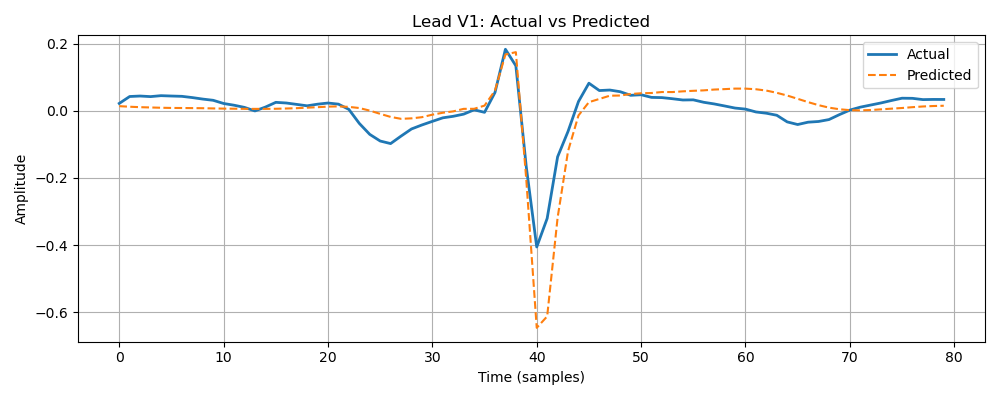
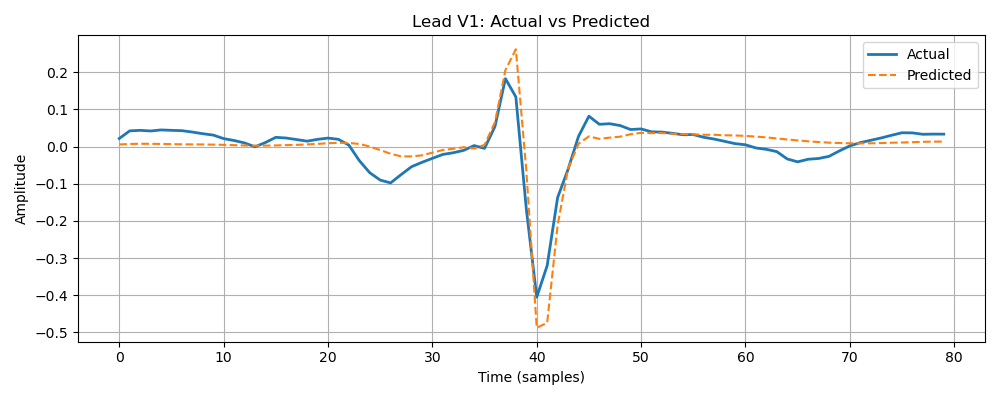
Input: I, II, V2. Focusing only the Normal People

diff --git a/QRS_to_Multilead_Reconstruction/PQRST_Stats_Segment_Extractor.py b/QRS_to_Multilead_Reconstruction/PQRST_Stats_Segment_Extractor.py
@@ -1,3 +1,6 @@
+# Modified to use V2 as an input like leads I and II
+# and V3 moved to other_leads to be predicted
+
 import os
 import joblib
 import neurokit2 as nk
@@ -12,7 +15,7 @@ import pywt
 
 # --- Parameters ---
 sampling_rate = 100
-padding = 40  # 80 samples total, centered on R-peak
+padding = 40
 segment_length = 2 * padding
 lead_names = ['I', 'II', 'III', 'aVR', 'aVL', 'aVF',
               'V1', 'V2', 'V3', 'V4', 'V5', 'V6']
@@ -23,17 +26,15 @@ input_test_path = Path("data_no_segmentation/ecg_test_clean.pkl")
 meta_train_path = Path("train_split.csv")
 meta_test_path = Path("test_split.csv")
 output_dir = Path("PQRST_Triplet_With_Stats_80")
-image_dir = output_dir / "train_segments_plots"
 output_dir.mkdir(parents=True, exist_ok=True)
-image_dir.mkdir(parents=True, exist_ok=True)
 
 # --- Load encoded feature names ---
 encoded_feats_path = Path("encoded_feature_names.txt")
+encoded_features = []
 if encoded_feats_path.exists():
     with open(encoded_feats_path, 'r') as f:
         encoded_features = [line.strip() for line in f.readlines()]
-else:
-    encoded_features = []
+
 
 def extract_stat_features(segment):
     hist, _ = np.histogram(segment, bins=10, density=True)
@@ -60,51 +61,33 @@ def extract_freq_features(segment, fs=100):
         'wavelet_energy': wavelet_energy
     }
 
-def find_qspt(signal, r_peaks, sampling_rate, pre_window=0.06, post_window=0.12):
-    pre_samples = int(pre_window * sampling_rate)
-    post_samples = int(post_window * sampling_rate)
+def find_qspt(signal, r_peaks, sampling_rate):
+    pre_samples = int(0.06 * sampling_rate)
+    post_samples = int(0.12 * sampling_rate)
     q_points, s_points, p_points, t_points = [], [], [], []
-
     for r in r_peaks:
         q_start = max(0, r - pre_samples)
         q_seg = signal[q_start:r]
         q = q_start + np.argmin(q_seg) if len(q_seg) > 0 else r
         q_points.append(q)
-
         s_end = min(len(signal), r + post_samples)
         s_seg = signal[r:s_end]
         s = r + np.argmin(s_seg) if len(s_seg) > 0 else r
         s_points.append(s)
-
         p_start = max(0, q - int(0.15 * sampling_rate))
         p_seg = signal[p_start:q]
         p = p_start + np.argmax(p_seg) if len(p_seg) > 0 else q
         p_points.append(p)
-
         t_end = min(len(signal), s + int(0.4 * sampling_rate))
         t_seg = signal[s:t_end]
         t = s + np.argmax(t_seg) if len(t_seg) > 0 else s
         t_points.append(t)
-
     return np.array(p_points), np.array(q_points), np.array(r_peaks), np.array(s_points), np.array(t_points)
-
-def plot_segment(sample, leads=['I', 'II', 'v1', 'v2', 'V3', 'v4', 'v5', 'v6'], meta_info=None, idx=0):
-    fig, axs = plt.subplots(len(leads), 1, figsize=(10, 6))
-    fig.suptitle(f"Segment {idx+1} - Metadata: {meta_info}")
-    for i, lead in enumerate(leads):
-        lead_idx = lead_names.index(lead)
-        axs[i].plot(sample[:, lead_idx])
-        axs[i].set_title(f"Lead {lead}")
-        axs[i].grid(True)
-    plt.tight_layout(rect=[0, 0.03, 1, 0.95])
-    plt.savefig(image_dir / f"segment_{idx+1}.png")
-    plt.close()
 
 def build_dataset_with_stats(ecg_dataset, meta_df):
     dataset = []
     meta_df = meta_df[meta_df.get("superclasses_NORM", 0) == 1].reset_index(drop=True)
 
-    plot_count = 0
     for i, sample in enumerate(tqdm(ecg_dataset, desc="Building dataset with stats (80 samples)")):
         if i >= len(meta_df):
             break
@@ -115,92 +98,71 @@ def build_dataset_with_stats(ecg_dataset, meta_df):
         onehot_features = {key: row_meta.get(key, 0) for key in encoded_features}
 
         lead_i = sample[:, 0]
-        cleaned_i = nk.ecg_clean(lead_i, sampling_rate=sampling_rate)
-        r_peaks_i = nk.ecg_peaks(cleaned_i, sampling_rate=sampling_rate)[1]['ECG_R_Peaks']
-        p_i, q_i, r_i, s_i, t_i = find_qspt(cleaned_i, r_peaks_i, sampling_rate)
-
         lead_ii = sample[:, 1]
-        cleaned_ii = nk.ecg_clean(lead_ii, sampling_rate=sampling_rate)
-        r_peaks_ii_data = nk.ecg_peaks(cleaned_ii, sampling_rate=sampling_rate)
-        if 'ECG_R_Peaks' not in r_peaks_ii_data[1] or len(r_peaks_ii_data[1]['ECG_R_Peaks']) == 0:
-            continue
-        r_peaks_ii = r_peaks_ii_data[1]['ECG_R_Peaks']
-        p_ii, q_ii, r_ii, s_ii, t_ii = find_qspt(cleaned_ii, r_peaks_ii, sampling_rate)
-
+        lead_v2 = sample[:, lead_names.index('V2')]
         lead_v3 = sample[:, lead_names.index('V3')]
-        cleaned_v3 = nk.ecg_clean(lead_v3, sampling_rate=sampling_rate)
-        r_peaks_v3_data = nk.ecg_peaks(cleaned_v3, sampling_rate=sampling_rate)
-        if 'ECG_R_Peaks' not in r_peaks_v3_data[1] or len(r_peaks_v3_data[1]['ECG_R_Peaks']) == 0:
+
+        r_i = nk.ecg_peaks(nk.ecg_clean(lead_i, sampling_rate), sampling_rate)[1]['ECG_R_Peaks']
+        r_ii = nk.ecg_peaks(nk.ecg_clean(lead_ii, sampling_rate), sampling_rate)[1]['ECG_R_Peaks']
+        r_v2 = nk.ecg_peaks(nk.ecg_clean(lead_v2, sampling_rate), sampling_rate)[1]['ECG_R_Peaks']
+        r_v3 = nk.ecg_peaks(nk.ecg_clean(lead_v3, sampling_rate), sampling_rate)[1]['ECG_R_Peaks']
+
+        if len(r_i) == 0 or len(r_ii) == 0 or len(r_v2) == 0 or len(r_v3) == 0:
             continue
-        r_peaks_v3 = r_peaks_v3_data[1]['ECG_R_Peaks']
-        p_v3, q_v3, r_v3, s_v3, t_v3 = find_qspt(cleaned_v3, r_peaks_v3, sampling_rate)
+
+        p_i, q_i, r_i, s_i, t_i = find_qspt(lead_i, r_i, sampling_rate)
+        p_ii, q_ii, r_ii, s_ii, t_ii = find_qspt(lead_ii, r_ii, sampling_rate)
+        p_v2, q_v2, r_v2, s_v2, t_v2 = find_qspt(lead_v2, r_v2, sampling_rate)
+        p_v3, q_v3, r_v3, s_v3, t_v3 = find_qspt(lead_v3, r_v3, sampling_rate)
 
         for j, r in enumerate(r_i):
             if j >= len(p_i) or j >= len(q_i) or j >= len(s_i) or j >= len(t_i):
                 continue
-            if len(r_peaks_ii) == 0 or len(r_peaks_v3) == 0:
+            r_ii_idx = np.argmin(np.abs(r_ii - r))
+            r_v2_idx = np.argmin(np.abs(r_v2 - r))
+            r_v3_idx = np.argmin(np.abs(r_v3 - r))
+            if r_ii_idx >= len(p_ii) or r_v2_idx >= len(p_v2) or r_v3_idx >= len(p_v3):
                 continue
-            r_ii_idx = np.argmin(np.abs(r_peaks_ii - r))
-            r_v3_idx = np.argmin(np.abs(r_peaks_v3 - r))
-            if r_ii_idx >= len(p_ii) or r_ii_idx >= len(q_ii) or r_ii_idx >= len(s_ii) or r_ii_idx >= len(t_ii):
-                continue
-            if r_v3_idx >= len(p_v3) or r_v3_idx >= len(q_v3) or r_v3_idx >= len(s_v3) or r_v3_idx >= len(t_v3):
-                continue
-            r_ii_val = r_peaks_ii[r_ii_idx]
-            r_v3_val = r_peaks_v3[r_v3_idx]
 
             start, end = r - padding, r + padding
             if start >= 0 and end <= sample.shape[0]:
                 segment_i = lead_i[start:end]
                 segment_ii = lead_ii[start:end]
+                segment_v2 = lead_v2[start:end]
                 segment_v3 = lead_v3[start:end]
 
                 stats_i = extract_stat_features(segment_i)
                 stats_ii = extract_stat_features(segment_ii)
-                stats_v3 = extract_stat_features(segment_v3)
+                stats_v2 = extract_stat_features(segment_v2)
 
                 freq_i = extract_freq_features(segment_i, fs=sampling_rate)
                 freq_ii = extract_freq_features(segment_ii, fs=sampling_rate)
-                freq_v3 = extract_freq_features(segment_v3, fs=sampling_rate)
+                freq_v2 = extract_freq_features(segment_v2, fs=sampling_rate)
 
                 other_leads_waveforms = {
                     lead_names[k]: sample[start:end, k] for k in range(12)
-                    if k not in [0, 1, lead_names.index('V3')]
+                    if k not in [0, 1, lead_names.index('V2')]
                 }
 
-                if plot_count < 20:
-                    plot_segment(sample[start:end, :], leads=['I', 'II', 'V3'],
-                                 meta_info=f"Age: {age}, Sex: {sex}, HR: {hr}", idx=plot_count)
-                    plot_count += 1
-
                 dataset.append({
-                    "pqrst_lead_I": [
-                        (p_i[j]/sampling_rate, lead_i[p_i[j]]),
-                        (q_i[j]/sampling_rate, lead_i[q_i[j]]),
-                        (r/sampling_rate, lead_i[r]),
-                        (s_i[j]/sampling_rate, lead_i[s_i[j]]),
-                        (t_i[j]/sampling_rate, lead_i[t_i[j]])
-                    ],
-                    "pqrst_lead_II": [
-                        (p_ii[r_ii_idx]/sampling_rate, lead_ii[p_ii[r_ii_idx]]),
-                        (q_ii[r_ii_idx]/sampling_rate, lead_ii[q_ii[r_ii_idx]]),
-                        (r_ii_val/sampling_rate, lead_ii[r_ii_val]),
-                        (s_ii[r_ii_idx]/sampling_rate, lead_ii[s_ii[r_ii_idx]]),
-                        (t_ii[r_ii_idx]/sampling_rate, lead_ii[t_ii[r_ii_idx]])
-                    ],
-                    "pqrst_lead_V3": [
-                        (p_v3[r_v3_idx]/sampling_rate, lead_v3[p_v3[r_v3_idx]]),
-                        (q_v3[r_v3_idx]/sampling_rate, lead_v3[q_v3[r_v3_idx]]),
-                        (r_v3_val/sampling_rate, lead_v3[r_v3_val]),
-                        (s_v3[r_v3_idx]/sampling_rate, lead_v3[s_v3[r_v3_idx]]),
-                        (t_v3[r_v3_idx]/sampling_rate, lead_v3[t_v3[r_v3_idx]])
-                    ],
+                    "pqrst_lead_I": [(p_i[j]/sampling_rate, lead_i[p_i[j]]), (q_i[j]/sampling_rate, lead_i[q_i[j]]),
+                                       (r/sampling_rate, lead_i[r]), (s_i[j]/sampling_rate, lead_i[s_i[j]]), (t_i[j]/sampling_rate, lead_i[t_i[j]])],
+                    "pqrst_lead_II": [(p_ii[r_ii_idx]/sampling_rate, lead_ii[p_ii[r_ii_idx]]),
+                                        (q_ii[r_ii_idx]/sampling_rate, lead_ii[q_ii[r_ii_idx]]),
+                                        (r_ii[r_ii_idx]/sampling_rate, lead_ii[r_ii[r_ii_idx]]),
+                                        (s_ii[r_ii_idx]/sampling_rate, lead_ii[s_ii[r_ii_idx]]),
+                                        (t_ii[r_ii_idx]/sampling_rate, lead_ii[t_ii[r_ii_idx]])],
+                    "pqrst_lead_V2": [(p_v2[r_v2_idx]/sampling_rate, lead_v2[p_v2[r_v2_idx]]),
+                                        (q_v2[r_v2_idx]/sampling_rate, lead_v2[q_v2[r_v2_idx]]),
+                                        (r_v2[r_v2_idx]/sampling_rate, lead_v2[r_v2[r_v2_idx]]),
+                                        (s_v2[r_v2_idx]/sampling_rate, lead_v2[s_v2[r_v2_idx]]),
+                                        (t_v2[r_v2_idx]/sampling_rate, lead_v2[t_v2[r_v2_idx]])],
                     "stats_lead_I": stats_i,
                     "stats_lead_II": stats_ii,
-                    "stats_lead_V3": stats_v3,
+                    "stats_lead_V2": stats_v2,
                     "freq_lead_I": freq_i,
                     "freq_lead_II": freq_ii,
-                    "freq_lead_V3": freq_v3,
+                    "freq_lead_V2": freq_v2,
                     "other_leads": other_leads_waveforms,
                     "age": age,
                     "sex": sex,
@@ -225,6 +187,5 @@ if __name__ == "__main__":
     print("Saving...")
     joblib.dump(train_set, output_dir / "pqrst_stats_train_80.pkl")
     joblib.dump(test_set, output_dir / "pqrst_stats_test_80.pkl")
-
-    print("✅ Done with statistical + frequency PQRST dataset (80 samples)!")
+    print("✅ Done with V2-based PQRST dataset!")
 

diff --git a/QRS_to_Multilead_Reconstruction/MLP_Model.py b/QRS_to_Multilead_Reconstruction/MLP_Model.py
@@ -22,7 +22,7 @@ if encoded_feats_path.exists():
         encoded_features = [line.strip() for line in f.readlines()]
 
 # --- Config ---
-leads_to_predict = ['V1', 'V2', 'V4', 'V5', 'V6']
+leads_to_predict = ['V1', 'V3', 'V4', 'V5', 'V6']  # V3 now predicted, V2 used as input only
 results_dir = Path("MLP_Model_Results")
 model_dir = results_dir / "models"
 plot_dir = results_dir / "plots"
@@ -43,11 +43,11 @@ def extract_features_and_targets(data, target_lead):
         try:
             pqrst_I = seg['pqrst_lead_I']
             pqrst_II = seg['pqrst_lead_II']
-            pqrst_V3 = seg['pqrst_lead_V3']
+            pqrst_V2 = seg['pqrst_lead_V2']
 
             (_, ap1), (tq1, aq1), (tr1, ar1), (ts1, as1), (tt1, at1) = pqrst_I
             (_, ap2), (tq2, aq2), (tr2, ar2), (ts2, as2), (tt2, at2) = pqrst_II
-            (_, ap3), (tq3, aq3), (tr3, ar3), (ts3, as3), (tt3, at3) = pqrst_V3
+            (_, ap3), (tq3, aq3), (tr3, ar3), (ts3, as3), (tt3, at3) = pqrst_V2
 
             intervals = [
                 tr1 - tq1, ts1 - tq1, tt1 - tq1,
@@ -69,13 +69,13 @@ def extract_features_and_targets(data, target_lead):
             stats_features = (
                 list(seg['stats_lead_I'].values()) +
                 list(seg['stats_lead_II'].values()) +
-                list(seg['stats_lead_V3'].values())
+                list(seg['stats_lead_V2'].values())
             )
 
             freq_features = (
                 list(seg['freq_lead_I'].values()) +
                 list(seg['freq_lead_II'].values()) +
-                list(seg['freq_lead_V3'].values())
+                list(seg['freq_lead_V2'].values())
             )
 
             features = (
@@ -170,7 +170,6 @@ with open(metrics_file, 'w') as f:
         f.write(f"Lead {lead}\nRMSE: {rmse:.4f}\nR^2: {r2:.4f}\nPearson Correlation: {corr:.4f}\n\n")
         print(f"✅ Lead {lead}: RMSE={rmse:.4f}, R²={r2:.4f}, Corr={corr:.4f}")
 
-        # Save one prediction plot
         plt.figure(figsize=(10, 4))
         plt.plot(y_test[0], label='Actual', linewidth=2)
         plt.plot(y_pred[0], label='Predicted', linestyle='--')
@@ -183,7 +182,6 @@ with open(metrics_file, 'w') as f:
         plt.savefig(plot_dir / f"lead_{lead}_prediction.png")
         plt.close()
 
-        # Save loss curve
         plt.figure(figsize=(8, 4))
         plt.plot(history.history['loss'], label='Train Loss')
         plt.plot(history.history['val_loss'], label='Val Loss')
@@ -196,8 +194,6 @@ with open(metrics_file, 'w') as f:
         plt.savefig(plot_dir / f"lead_{lead}_loss_curve.png")
         plt.close()
 
-# Final plot
-plot_multiple_predictions = plot_grid_predictions
-plot_multiple_predictions(test_data, leads_to_predict, num_samples=10)
-
+plot_grid_predictions(test_data, leads_to_predict, num_samples=10)
 print("\n🎉 All models trained and evaluated.")
+
